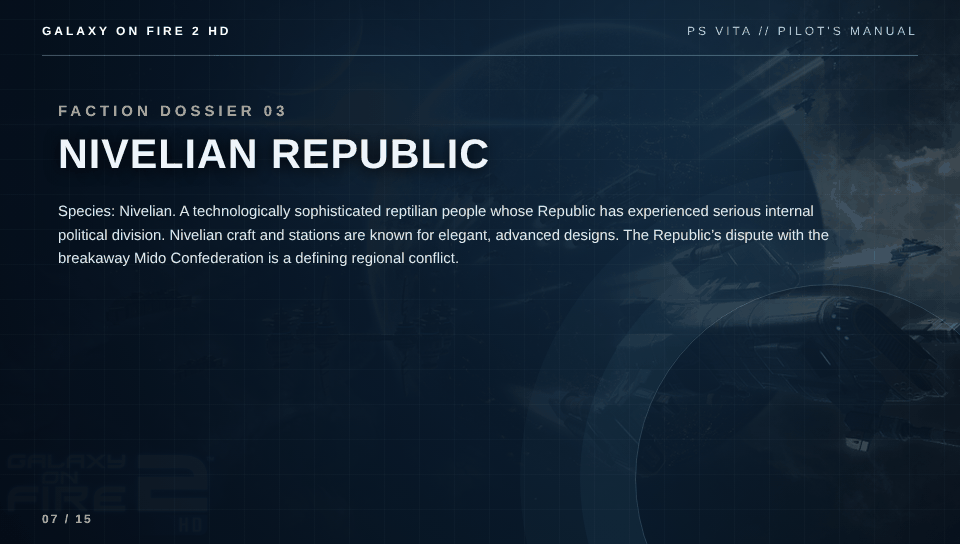
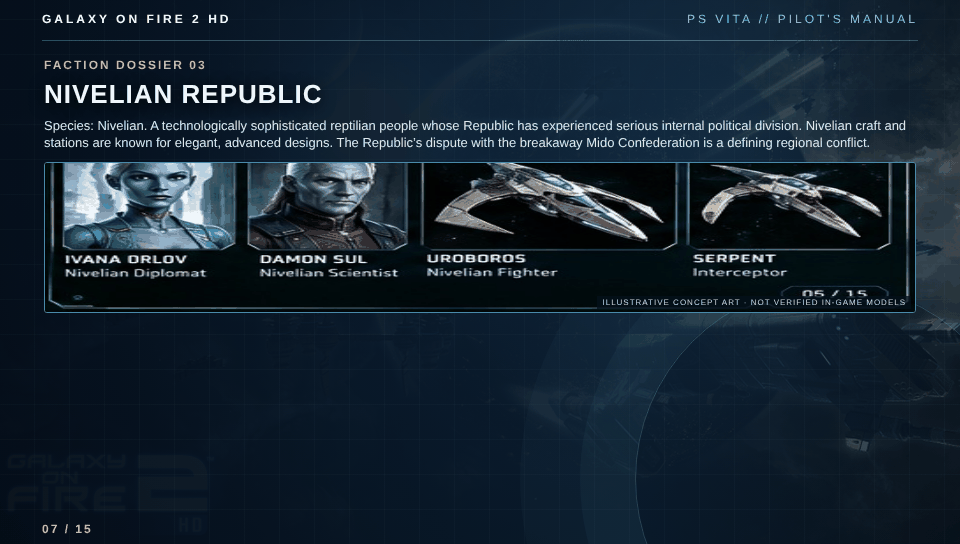
Manual: switch to the illustrated version (faction art strips)
Claude-Session: https://claude.ai/code/session_01GjSetdPLKXfcFUXFEpS84V

diff --git a/manual/source/index.html b/manual/source/index.html
@@ -1,1 +1,1 @@
-<!doctype html><html lang="en"><head><meta charset="utf-8"><meta name="viewport" content="width=device-width,initial-scale=1,maximum-scale=1"><title>Galaxy on Fire 2 HD — Vita Digital Manual</title><link rel="stylesheet" href="style.css"></head><body><main class="manual" id="manual"><div class="accent"></div><header class="top"><span class="brand">GALAXY ON FIRE 2 HD</span><span>PS VITA // PILOT'S MANUAL</span></header><div class="line"></div><article class="body"><div class="eyebrow" id="k"></div><h1 class="heading" id="h"></h1><div class="copy" id="t"></div></article><footer class="bottom"><span class="index" id="num"></span><div class="controls"><button id="prev" aria-label="Previous page">◀ PREV</button><button id="next" aria-label="Next page">NEXT ▶</button></div></footer></main><script>const pages=[{"kicker": "WELCOME ABOARD", "title": "PILOT BRIEFING", "text": "The galaxy is open. Your ship is your livelihood, your reputation travels ahead of you, and every jump can lead to profit or danger. This field manual introduces the universe of Galaxy on Fire 2 HD without revealing the sequel’s central storyline."}, {"kicker": "THE STORY SO FAR", "title": "PROLOGUE · GALAXY ON FIRE 1", "text": "Before the events of Galaxy on Fire 2, Terran pilot Keith T. Maxwell left military service and became an independent mercenary. Guided initially by Lieutenant Christine Hammond, he took contracts, escorted shipments and crossed contested systems as the Terran Federation and Vossk Empire struggled for influence."}, {"kicker": "THE STORY SO FAR", "title": "THE PIRATE CONSPIRACY", "text": "Maxwell’s routine contracts drew him into a conspiracy connecting pirate attacks, hostile Vossk interests and the corrupt Terran officer Vlad Borsikov. Christine Hammond was killed in the conflict. Maxwell ultimately defeated Borsikov, bringing the conspiracy to an end—but not erasing the political rivalries that had helped it grow."}, {"kicker": "GALACTIC ATLAS", "title": "A FRACTURED FRONTIER", "text": "The known galaxy is divided among four major political powers. Jumpgates connect markets and military borders; trade routes attract freighters, mercenaries and raiders. Governments are not interchangeable: a pilot welcomed in one region may be regarded with suspicion in another."}, {"kicker": "FACTION DOSSIER 01", "title": "TERRAN FEDERATION", "text": "Species: Human (Terran). A far-reaching political and commercial power with a culture of exploration, enterprise and independent-minded citizens. Terran space is a crossroads for interstellar trade. Longstanding tensions with the Vossk Empire remain part of the political landscape."}, {"kicker": "FACTION DOSSIER 02", "title": "VOSSK EMPIRE", "text": "Species: Vossk. A disciplined, militarized civilization with strong imperial traditions and an emphasis on duty and martial strength. Vossk ships are typically sturdy and visually distinctive. Relations with the Terran Federation are historically strained, so borders deserve careful navigation."}, {"kicker": "FACTION DOSSIER 03", "title": "NIVELIAN REPUBLIC", "text": "Species: Nivelian. A technologically sophisticated reptilian people whose Republic has experienced serious internal political division. Nivelian craft and stations are known for elegant, advanced designs. The Republic’s dispute with the breakaway Mido Confederation is a defining regional conflict."}, {"kicker": "FACTION DOSSIER 04", "title": "MIDO CONFEDERATION", "text": "Population: Primarily Nivelian and Terran communities. The Confederation arose from separatists and dissidents during the Nivelian Civil War. Its independence is contested by the Nivelian Republic. Mido’s frontier identity and practical, often repurposed ships reflect a younger state shaped by hardship."}, {"kicker": "SPECIES FILE", "title": "TERRANS · VOSSK · NIVELIANS", "text": "Terrans are adaptable humans with an appetite for commerce and exploration. Vossk are a distinct, formidable alien civilization whose social institutions place high value on military service. Nivelians are reptilian and technically accomplished, but are not politically united: many live beyond the Republic’s borders."}, {"kicker": "SPECIES FILE", "title": "OTHER INHABITANTS", "text": "Beyond the three best-known species, station lounges and trading hubs host less prominent groups such as Bobolians, Octopods and cyborgs. They contribute to the galaxy’s mix of merchants, travelers and specialists. Not every individual speaks for a government, and appearances are not a reliable guide to allegiance."}, {"kicker": "FRONTIER INTELLIGENCE", "title": "PIRATES & UNCHARTED RISKS", "text": "Pirates are opportunistic raiders, not a single recognized interstellar government. Their attacks make some routes more dangerous than others. You may also hear unsettling rumors in station lounges; treat unfamiliar threats as unverified intelligence rather than assuming every story is true."}, {"kicker": "PILOT OPERATIONS", "title": "A LIFE BETWEEN STATIONS", "text": "Trade commodities, accept contracts, mine asteroids, upgrade your vessel and explore jumpgate-linked systems. Ship choice is a balance of firepower, protection, handling and cargo capacity. Read local conditions before departing and keep enough resources for the journey home."}, {"kicker": "SHIP SYSTEMS", "title": "FIELD CHECKLIST", "text": "Before launch: inspect hull and equipment, review installed weapons and utilities, check cargo space, and confirm your next destination. In flight: use the radar and target indicators, watch incoming fire, and be ready to disengage. At a station: repair, refit, trade and look for work."}, {"kicker": "TECHNICAL RECORD", "title": "PS VITA HOMEBREW EDITION", "text": "Package: Galaxy on Fire 2 HD · Title ID: GOF2HD012 · App version: 01.00 · VPK contains 105 entries including eboot.bin, shader files, HUD layout data and LiveArea artwork. Embedded splash art: 960 × 544 pixels. This is a package inventory, not a verified performance benchmark or confirmation of manual support."}, {"kicker": "ABOUT THIS EDITION", "title": "A SPOILER-SAFE FIELD GUIDE", "text": "This fan-made digital manual recounts the first game’s story but intentionally avoids Galaxy on Fire 2 campaign reveals. Faction descriptions reflect introductory setting information; no mission walkthroughs, hidden identities, or late-game twists are included. Created as a companion to your PS Vita homebrew installation."}];let i=0;function render(){document.getElementById('k').textContent=pages[i].kicker;document.getElementById('h').textContent=pages[i].title;document.getElementById('t').textContent=pages[i].text;document.getElementById('num').textContent=String(i+1).padStart(2,'0')+' / '+String(pages.length).padStart(2,'0');document.getElementById('prev').disabled=i===0;document.getElementById('next').disabled=i===pages.length-1;location.hash='page-'+(i+1)}function move(n){i=Math.max(0,Math.min(pages.length-1,i+n));render()}document.getElementById('prev').onclick=()=>move(-1);document.getElementById('next').onclick=()=>move(1);document.addEventListener('keydown',e=>{if(e.key==='ArrowRight'||e.key===' ')move(1);if(e.key==='ArrowLeft')move(-1)});let x=0;document.addEventListener('touchstart',e=>x=e.changedTouches[0].clientX,{passive:true});document.addEventListener('touchend',e=>{let d=e.changedTouches[0].clientX-x;if(Math.abs(d)>55)move(d<0?1:-1)},{passive:true});render();</script></body></html>
+<!doctype html><html lang="en"><head><meta charset="utf-8"><meta name="viewport" content="width=device-width,initial-scale=1,maximum-scale=1"><title>Galaxy on Fire 2 HD — Vita Digital Manual</title><link rel="stylesheet" href="style.css"></head><body><main class="manual" id="manual"><div class="accent"></div><header class="top"><span class="brand">GALAXY ON FIRE 2 HD</span><span>PS VITA // PILOT'S MANUAL</span></header><div class="line"></div><article class="body"><div class="eyebrow" id="k"></div><h1 class="heading" id="h"></h1><div class="copy" id="t"></div><div class="gallery" id="gallery" aria-label="Illustrated ship and character concepts"></div></article><footer class="bottom"><span class="index" id="num"></span><div class="controls"><button id="prev" aria-label="Previous page">◀ PREV</button><button id="next" aria-label="Next page">NEXT ▶</button></div></footer></main><script>const pages=[{"kicker": "WELCOME ABOARD", "title": "PILOT BRIEFING", "text": "The galaxy is open. Your ship is your livelihood, your reputation travels ahead of you, and every jump can lead to profit or danger. This field manual introduces the universe of Galaxy on Fire 2 HD without revealing the sequel’s central storyline."}, {"kicker": "THE STORY SO FAR", "title": "PROLOGUE · GALAXY ON FIRE 1", "text": "Before the events of Galaxy on Fire 2, Terran pilot Keith T. Maxwell left military service and became an independent mercenary. Guided initially by Lieutenant Christine Hammond, he took contracts, escorted shipments and crossed contested systems as the Terran Federation and Vossk Empire struggled for influence."}, {"kicker": "THE STORY SO FAR", "title": "THE PIRATE CONSPIRACY", "text": "Maxwell’s routine contracts drew him into a conspiracy connecting pirate attacks, hostile Vossk interests and the corrupt Terran officer Vlad Borsikov. Christine Hammond was killed in the conflict. Maxwell ultimately defeated Borsikov, bringing the conspiracy to an end—but not erasing the political rivalries that had helped it grow."}, {"kicker": "GALACTIC ATLAS", "title": "A FRACTURED FRONTIER", "text": "The known galaxy is divided among four major political powers. Jumpgates connect markets and military borders; trade routes attract freighters, mercenaries and raiders. Governments are not interchangeable: a pilot welcomed in one region may be regarded with suspicion in another."}, {"kicker": "FACTION DOSSIER 01", "title": "TERRAN FEDERATION", "text": "Species: Human (Terran). A far-reaching political and commercial power with a culture of exploration, enterprise and independent-minded citizens. Terran space is a crossroads for interstellar trade. Longstanding tensions with the Vossk Empire remain part of the political landscape."}, {"kicker": "FACTION DOSSIER 02", "title": "VOSSK EMPIRE", "text": "Species: Vossk. A disciplined, militarized civilization with strong imperial traditions and an emphasis on duty and martial strength. Vossk ships are typically sturdy and visually distinctive. Relations with the Terran Federation are historically strained, so borders deserve careful navigation."}, {"kicker": "FACTION DOSSIER 03", "title": "NIVELIAN REPUBLIC", "text": "Species: Nivelian. A technologically sophisticated reptilian people whose Republic has experienced serious internal political division. Nivelian craft and stations are known for elegant, advanced designs. The Republic’s dispute with the breakaway Mido Confederation is a defining regional conflict."}, {"kicker": "FACTION DOSSIER 04", "title": "MIDO CONFEDERATION", "text": "Population: Primarily Nivelian and Terran communities. The Confederation arose from separatists and dissidents during the Nivelian Civil War. Its independence is contested by the Nivelian Republic. Mido’s frontier identity and practical, often repurposed ships reflect a younger state shaped by hardship."}, {"kicker": "SPECIES FILE", "title": "TERRANS · VOSSK · NIVELIANS", "text": "Terrans are adaptable humans with an appetite for commerce and exploration. Vossk are a distinct, formidable alien civilization whose social institutions place high value on military service. Nivelians are reptilian and technically accomplished, but are not politically united: many live beyond the Republic’s borders."}, {"kicker": "SPECIES FILE", "title": "OTHER INHABITANTS", "text": "Beyond the three best-known species, station lounges and trading hubs host less prominent groups such as Bobolians, Octopods and cyborgs. They contribute to the galaxy’s mix of merchants, travelers and specialists. Not every individual speaks for a government, and appearances are not a reliable guide to allegiance."}, {"kicker": "FRONTIER INTELLIGENCE", "title": "PIRATES & UNCHARTED RISKS", "text": "Pirates are opportunistic raiders, not a single recognized interstellar government. Their attacks make some routes more dangerous than others. You may also hear unsettling rumors in station lounges; treat unfamiliar threats as unverified intelligence rather than assuming every story is true."}, {"kicker": "PILOT OPERATIONS", "title": "A LIFE BETWEEN STATIONS", "text": "Trade commodities, accept contracts, mine asteroids, upgrade your vessel and explore jumpgate-linked systems. Ship choice is a balance of firepower, protection, handling and cargo capacity. Read local conditions before departing and keep enough resources for the journey home."}, {"kicker": "SHIP SYSTEMS", "title": "FIELD CHECKLIST", "text": "Before launch: inspect hull and equipment, review installed weapons and utilities, check cargo space, and confirm your next destination. In flight: use the radar and target indicators, watch incoming fire, and be ready to disengage. At a station: repair, refit, trade and look for work."}, {"kicker": "TECHNICAL RECORD", "title": "PS VITA HOMEBREW EDITION", "text": "Package: Galaxy on Fire 2 HD · Title ID: GOF2HD012 · App version: 01.00 · VPK contains 105 entries including eboot.bin, shader files, HUD layout data and LiveArea artwork. Embedded splash art: 960 × 544 pixels. This is a package inventory, not a verified performance benchmark or confirmation of manual support."}, {"kicker": "ABOUT THIS EDITION", "title": "A SPOILER-SAFE FIELD GUIDE", "text": "This fan-made digital manual recounts the first game’s story but intentionally avoids Galaxy on Fire 2 campaign reveals. Faction descriptions reflect introductory setting information; no mission walkthroughs, hidden identities, or late-game twists are included. Created as a companion to your PS Vita homebrew installation."}];const galleryMap={0:'cover',1:'prologue',2:'prologue',4:'terran',5:'vossk',6:'nivelian',7:'mido',8:'terran',9:'nivelian',11:'cover',12:'prologue',13:'cover'};let i=0;function render(){const g=document.getElementById('gallery');const key=galleryMap[i];g.innerHTML=key?'<img src="assets/'+key+'_gallery.jpg" alt="Illustrative portraits and spacecraft concepts"><span>ILLUSTRATIVE CONCEPT ART · NOT VERIFIED IN-GAME MODELS</span>':'';g.style.display=key?'block':'none';document.getElementById('k').textContent=pages[i].kicker;document.getElementById('h').textContent=pages[i].title;document.getElementById('t').textContent=pages[i].text;document.getElementById('num').textContent=String(i+1).padStart(2,'0')+' / '+String(pages.length).padStart(2,'0');document.getElementById('prev').disabled=i===0;document.getElementById('next').disabled=i===pages.length-1;location.hash='page-'+(i+1)}function move(n){i=Math.max(0,Math.min(pages.length-1,i+n));render()}document.getElementById('prev').onclick=()=>move(-1);document.getElementById('next').onclick=()=>move(1);document.addEventListener('keydown',e=>{if(e.key==='ArrowRight'||e.key===' ')move(1);if(e.key==='ArrowLeft')move(-1)});let x=0;document.addEventListener('touchstart',e=>x=e.changedTouches[0].clientX,{passive:true});document.addEventListener('touchend',e=>{let d=e.changedTouches[0].clientX-x;if(Math.abs(d)>55)move(d<0?1:-1)},{passive:true});render();</script></body></html>

diff --git a/manual/source/style.css b/manual/source/style.css
@@ -1,1 +1,3 @@
 *{box-sizing:border-box}html,body{margin:0;background:#030814;color:#eef4fa;font-family:Arial,Helvetica,sans-serif;height:100%;overflow:hidden}body{display:grid;place-items:center}.manual{width:min(100vw,calc(100vh * 960 / 544));aspect-ratio:960/544;position:relative;overflow:hidden;background:radial-gradient(circle at 75% 22%,#204263 0%,#0c1d32 42%,#040a15 100%);border:1px solid #34536a}.manual:before{content:'';position:absolute;inset:0;background:linear-gradient(90deg,#05101cf2 3%,#091b2ae8 66%,#06121a85),url('assets/pic0.png') center/cover;opacity:.55}.manual:after{content:'';position:absolute;inset:0;background:repeating-linear-gradient(0deg,transparent 0 34px,#d1eaff0b 35px),repeating-linear-gradient(90deg,transparent 0 34px,#d1eaff0b 35px);pointer-events:none}.top{position:absolute;z-index:2;top:24px;left:42px;right:42px;display:flex;justify-content:space-between;align-items:center;font-size:12px;letter-spacing:3px;color:#75c9f6}.brand{font-weight:800;color:#fff}.line{position:absolute;top:55px;left:42px;right:42px;height:1px;background:#4f9fc17d}.body{position:absolute;z-index:2;left:58px;top:102px;right:75px}.eyebrow{color:#ffb25d;font-weight:bold;letter-spacing:4px;font-size:15px}.heading{font-weight:900;font-size:clamp(22px,4.3vw,45px);letter-spacing:1px;margin:14px 0 24px;line-height:1.05;max-width:760px;text-transform:uppercase;text-shadow:0 2px 15px #000}.copy{font-size:clamp(12px,1.55vw,19px);line-height:1.58;max-width:790px;color:#dbe9f2}.bottom{position:absolute;z-index:2;bottom:18px;left:42px;right:42px;display:flex;align-items:center;justify-content:space-between;color:#a6bdcb;font-size:12px}.controls{display:flex;gap:12px;align-items:center}button{background:#112b40;color:#f5fbff;border:1px solid #447b9b;padding:9px 16px;border-radius:5px;cursor:pointer;font-weight:bold}button:disabled{opacity:.3}.index{color:#ffbb72;font-weight:bold;letter-spacing:2px}.accent{position:absolute;z-index:1;right:-65px;bottom:-130px;width:390px;height:390px;border:1px solid #7fc6ee3d;border-radius:50%;box-shadow:0 0 0 55px #7fc6ee0b,0 0 0 115px #7fc6ee08}.cover .body{top:126px}.cover .heading{font-size:clamp(35px,6.2vw,70px);max-width:790px}.cover .copy{max-width:610px}.hint{position:absolute;z-index:2;bottom:70px;left:58px;color:#ffb25d;font-size:13px;letter-spacing:1px}@media(max-width:650px){.body{top:75px;left:30px;right:30px}.top{top:12px;left:22px;right:22px;font-size:8px}.line{top:36px;left:22px;right:22px}.eyebrow{font-size:9px}.heading{margin:7px 0 10px}.copy{font-size:clamp(9px,2.2vw,14px);line-height:1.42}.bottom{bottom:8px;left:22px;right:22px;font-size:9px}button{padding:5px 9px}.cover .body{top:78px}.hint{bottom:45px;left:30px;font-size:9px}}
+/* Compact image gallery for the Vita 960 × 544 viewport */
+.body{top:72px;left:44px;right:44px}.eyebrow{font-size:12px;letter-spacing:2px}.heading{font-size:29px;margin:8px 0 10px;line-height:1.08}.copy{font-size:14px;line-height:1.34;max-width:865px}.gallery{position:relative;margin-top:12px;width:100%;height:155px;overflow:hidden;border:1px solid #4389aa;border-radius:3px;background:#050d17}.gallery img{display:block;width:100%;height:100%;object-fit:fill}.gallery span{position:absolute;right:4px;bottom:3px;background:#05101bc9;color:#c7d9e2;font-size:8px;letter-spacing:1px;padding:2px 5px}.bottom{bottom:8px}.top{top:12px}.line{top:40px}.body{top:58px}.heading{font-size:26px}.copy{font-size:13px;line-height:1.3}.gallery{height:151px;margin-top:10px}@media(max-width:650px){.body{top:11%;left:4%;right:4%}.heading{font-size:clamp(12px,3vw,24px);margin:3px 0 5px}.eyebrow{font-size:clamp(7px,1.6vw,11px)}.copy{font-size:clamp(7px,1.4vw,12px);line-height:1.2}.gallery{height:27%;margin-top:5px}.gallery span{font-size:5px}.top{top:2%;font-size:7px}.line{top:8%}}
